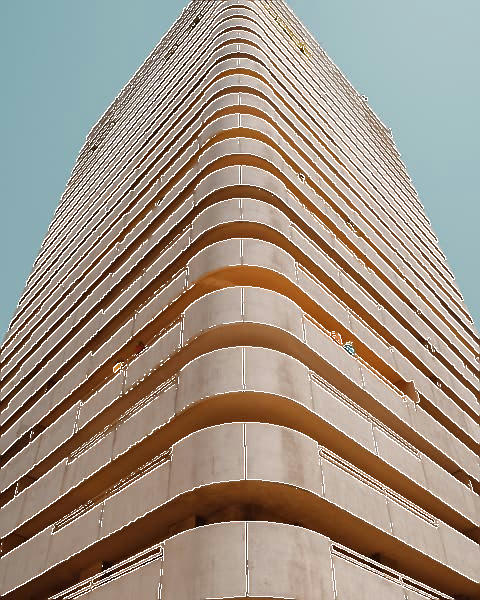
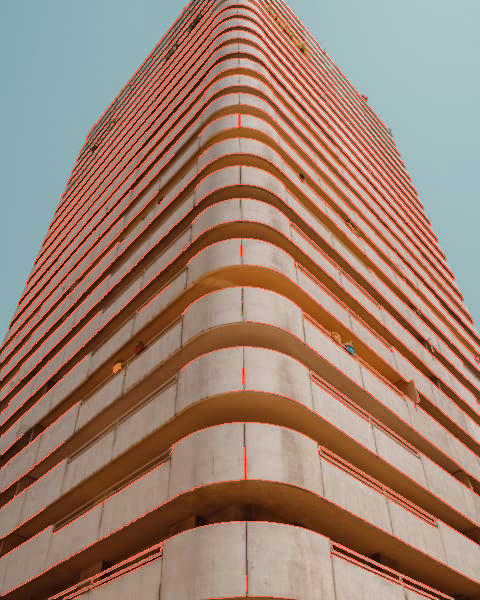
Small optimizations

diff --git a/src/edge.rs b/src/edge.rs
@@ -1,16 +1,10 @@
 //! Functions for detecting edges in images.
 
-// use crate::definitions::{HasBlack, HasWhite};
-// use crate::filter::gaussian_blur_f32;
 use image::{GenericImageView, GrayImage, ImageBuffer, Luma, Rgba};
 use imageproc::gradients::{horizontal_sobel, vertical_sobel};
-use js_sys::Math;
 use std::f32;
 
 /// Runs the canny edge detection algorithm.
-///
-/// Returns a binary image where edge pixels have a value of 255
-///  and non-edge pixels a value of 0.
 ///
 /// # Params
 ///
@@ -33,10 +27,11 @@ pub fn canny(
     src_buf: &mut ImageBuffer<Rgba<u8>, Vec<u8>>,
     low_threshold: f32,
     high_threshold: f32,
+    count: u32,
 ) {
     assert!(high_threshold >= low_threshold);
     // Heavily based on the implementation proposed by wikipedia.
-    // 1. Gaussian blur.
+    // 1. Gaussian blur.(we don't do this step to boost speed).
     // const SIGMA: f32 = 1.4;
     // let blurred = gaussian_blur_f32(image, SIGMA);
 
@@ -46,7 +41,7 @@ pub fn canny(
     let g: Vec<f32> = gx
         .iter()
         .zip(gy.iter())
-        .map(|(h, v)| Math::hypot(*h as f64, *v as f64) as f32)
+        .map(|(h, v)| (*h as f32).hypot(*v as f32))
         .collect::<Vec<f32>>();
 
     let g = ImageBuffer::from_raw(image.width(), image.height(), g).unwrap();
@@ -55,7 +50,7 @@ pub fn canny(
     let thinned = non_maximum_suppression(&g, &gx, &gy);
 
     // 4. Hysteresis to filter out edges based on thresholds.
-    hysteresis(&thinned, src_buf, low_threshold, high_threshold);
+    hysteresis(&thinned, src_buf, low_threshold, high_threshold, count);
 }
 
 /// Finds local maxima to make the edges thinner.
@@ -70,8 +65,7 @@ fn non_maximum_suppression(
         for x in 1..g.width() - 1 {
             let x_gradient = gx[(x, y)][0] as f32;
             let y_gradient = gy[(x, y)][0] as f32;
-            let mut angle =
-                Math::atan2(y_gradient as f64, x_gradient as f64) as f32 * RADIANS_TO_DEGREES;
+            let mut angle = (y_gradient).atan2(x_gradient) * RADIANS_TO_DEGREES;
             if angle < 0.0 {
                 angle += 180.0
             }
@@ -123,25 +117,28 @@ fn hysteresis(
     out: &mut ImageBuffer<Rgba<u8>, Vec<u8>>,
     low_thresh: f32,
     high_thresh: f32,
+    hue: u32,
 ) {
-    let max_brightness = image::Rgba {
-        data: [255u8, 255u8, 255u8, 255u8],
+    let (r, g, b) = cubehelix_to_rgb(hue, 1.0, 0.58);
+    let pixel = image::Rgba {
+        data: [r, g, b, 255u8],
     };
-    // let min_brightness = image::Rgba {
-    //     data: [0u8, 0u8, 0u8, 255u8],
-    // };
     // Init output image as all black.
-    // let mut out = ImageBuffer::from_pixel(input.width(), input.height(), min_brightness);
+    let mut tracking = ImageBuffer::from_pixel(input.width(), input.height(), Luma { data: [0u8] });
     // Stack. Possible optimization: Use previously allocated memory, i.e. gx.
     let mut edges = Vec::with_capacity(((input.width() * input.height()) / 2) as usize);
     for y in 1..input.height() - 1 {
         for x in 1..input.width() - 1 {
             let inp_pix = *input.get_pixel(x, y);
-            let out_pix = *out.get_pixel(x, y);
+            let out_pix = *tracking.get_pixel(x, y);
             // If the edge strength is higher than high_thresh, mark it as an edge.
-            if inp_pix[0] >= high_thresh && out_pix[0] != 255 {
-                out.put_pixel(x, y, max_brightness);
+            if inp_pix[0] >= high_thresh && out_pix[0] == 0 {
+                tracking.put_pixel(x, y, Luma { data: [255u8] });
+                out.put_pixel(x, y, pixel);
+                out.put_pixel(x - 1, y, pixel);
+                out.put_pixel(x + 1, y, pixel);
                 edges.push((x, y));
+
                 // Track neighbors until no neighbor is >= low_thresh.
                 while !edges.is_empty() {
                     let (nx, ny) = edges.pop().unwrap();
@@ -156,9 +153,18 @@ fn hysteresis(
 
                     for neighbor_idx in &neighbor_indices {
                         let in_neighbor = *input.get_pixel(neighbor_idx.0, neighbor_idx.1);
-                        let out_neighbor = *out.get_pixel(neighbor_idx.0, neighbor_idx.1);
+                        let out_neighbor = *tracking.get_pixel(neighbor_idx.0, neighbor_idx.1);
                         if in_neighbor[0] >= low_thresh && out_neighbor[0] == 0 {
-                            out.put_pixel(neighbor_idx.0, neighbor_idx.1, max_brightness);
+                            tracking.put_pixel(
+                                neighbor_idx.0,
+                                neighbor_idx.1,
+                                Luma { data: [255u8] },
+                            );
+                            out.put_pixel(neighbor_idx.0, neighbor_idx.1, pixel);
+                            out.put_pixel(neighbor_idx.0 - 1, neighbor_idx.1, pixel);
+                            out.put_pixel(neighbor_idx.0 + 1, neighbor_idx.1, pixel);
+                            // out.put_pixel(neighbor_idx.0, neighbor_idx.1 - 1, pixel);
+                            // out.put_pixel(neighbor_idx.0, neighbor_idx.1 + 1, pixel);
                             edges.push((neighbor_idx.0, neighbor_idx.1));
                         }
                     }
@@ -166,4 +172,35 @@ fn hysteresis(
             }
         }
     }
+}
+
+// Convert HSL to Cubehelix to RGB
+const A: f32 = -0.14861_f32;
+const B: f32 = 1.78277_f32;
+const C: f32 = -0.29227_f32;
+const D: f32 = -0.90649_f32;
+const E: f32 = 1.97294_f32;
+const PI: f32 = 3.14159265_f32;
+
+fn hex(v: f32) -> u8 {
+    if v <= 0.0 {
+        0_u8
+    } else if v >= 1.0 {
+        255_u8
+    } else {
+        (v * 255.0).floor() as u8
+    }
+}
+
+fn cubehelix_to_rgb(hue: u32, sat: f32, light: f32) -> (u8, u8, u8) {
+    let h = (hue as f32 + 120.0) * (PI / 180.0);
+    let l = light;
+    let a = sat * light * (1.0 - light);
+    let cosh = h.cos();
+    let sinh = h.sin();
+    return (
+        hex(l + a * (A * cosh + B * sinh)),
+        hex(l + a * (C * cosh + D * sinh)),
+        hex(l + a * (E * cosh)),
+    );
 }

diff --git a/src/lib.rs b/src/lib.rs
@@ -7,6 +7,7 @@ mod edge;
 mod utils;
 
 use cfg_if::cfg_if;
+use image::Pixel;
 use wasm_bindgen::prelude::*;
 use wasm_bindgen::Clamped;
 
@@ -20,21 +21,22 @@ cfg_if! {
     }
 }
 
-// #[wasm_bindgen]
-// extern {
-//     fn alert(s: &str);
-// }
-
 #[wasm_bindgen]
-pub fn detect(buf: Clamped<Vec<u8>>, width: u32, height: u32) -> Clamped<Vec<u8>> {
-    let mut source_buf = image::RgbaImage::from_vec(width, height, buf.to_vec())
-        .expect("Could not load image from buf");
+pub fn detect(buf: Clamped<Vec<u8>>, width: u32, height: u32, count: u32) -> Clamped<Vec<u8>> {
+    let buf_vec = buf.0;
 
-    let image = image::DynamicImage::ImageRgba8(source_buf.clone()).to_luma();
+    let mut source_buffer = image::RgbaImage::from_vec(width, height, buf_vec)
+        .expect("Could not load image from input buffer");
 
-    edge::canny(&image, &mut source_buf, 100.0, 150.0);
+    let mut gray_image = image::DynamicImage::new_luma8(width, height).to_luma();
 
-    Clamped(source_buf.to_vec())
+    for (x, y, p) in source_buffer.enumerate_pixels() {
+        gray_image.put_pixel(x, y, p.to_luma());
+    }
+
+    edge::canny(&gray_image, &mut source_buffer, 150.0, 300.0, count);
+
+    Clamped(source_buffer.into_raw())
 }
 
 #[cfg(test)]
@@ -48,7 +50,7 @@ mod tests {
         let width = img.width();
         let height = img.height();
         let raw = Clamped(img.to_rgba().into_raw());
-        let out = detect(raw, width, height);
+        let out = detect(raw, width, height, 1);
         let out_buf = image::RgbaImage::from_vec(width, height, out.to_vec())
             .expect("Could not load image from buf");
 
